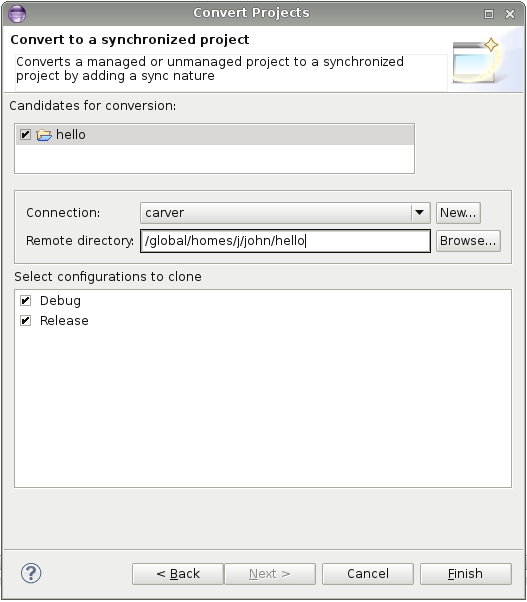
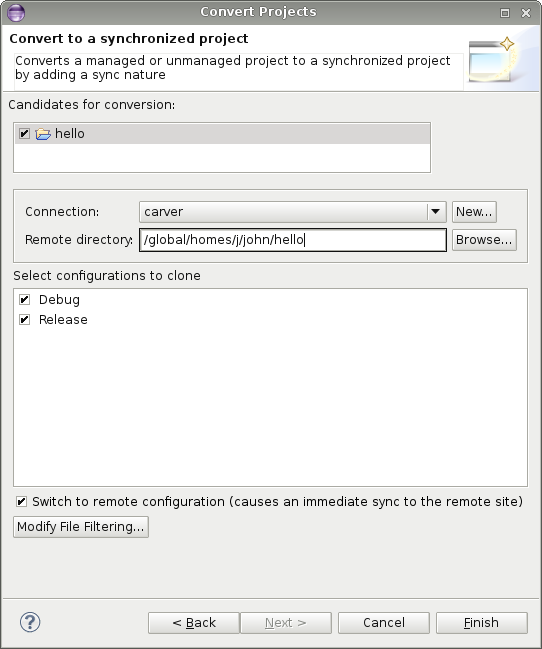
Fix bug 382504 - Conversion wizard for Synchronized Projects should have file filtering and other options

Changed region(s): [[0.0, 0.0, 1.0, 1.0]]

diff --git a/rdt/org.eclipse.ptp.rdt.sync.ui/src/org/eclipse/ptp/rdt/sync/ui/wizards/ConvertLocalToSyncProjectWizardPage.java b/rdt/org.eclipse.ptp.rdt.sync.ui/src/org/eclipse/ptp/rdt/sync/ui/wizards/ConvertLocalToSyncProjectWizardPage.java
@@ -41,10 +41,12 @@ import org.eclipse.jface.viewers.ISelectionChangedListener;
 import org.eclipse.jface.viewers.IStructuredContentProvider;
 import org.eclipse.jface.viewers.SelectionChangedEvent;
 import org.eclipse.jface.viewers.Viewer;
+import org.eclipse.jface.window.Window;
 import org.eclipse.ptp.rdt.core.resources.RemoteNature;
 import org.eclipse.ptp.rdt.core.services.IRDTServiceConstants;
 import org.eclipse.ptp.rdt.sync.core.BuildConfigurationManager;
 import org.eclipse.ptp.rdt.sync.core.BuildScenario;
+import org.eclipse.ptp.rdt.sync.core.SyncFileFilter;
 import org.eclipse.ptp.rdt.sync.core.SyncManager;
 import org.eclipse.ptp.rdt.sync.core.resources.RemoteSyncNature;
 import org.eclipse.ptp.rdt.sync.core.serviceproviders.ISyncServiceProvider;
@@ -53,6 +55,7 @@ import org.eclipse.ptp.rdt.sync.core.services.IRemoteSyncServiceConstants;
 import org.eclipse.ptp.rdt.sync.ui.ISynchronizeParticipant;
 import org.eclipse.ptp.rdt.sync.ui.ISynchronizeParticipantDescriptor;
 import org.eclipse.ptp.rdt.sync.ui.RDTSyncUIPlugin;
+import org.eclipse.ptp.rdt.sync.ui.SyncFileFilterPage;
 import org.eclipse.ptp.rdt.sync.ui.SynchronizeParticipantRegistry;
 import org.eclipse.ptp.rdt.sync.ui.messages.Messages;
 import org.eclipse.ptp.remote.core.IRemoteConnection;
@@ -67,6 +70,7 @@ import org.eclipse.swt.events.SelectionEvent;
 import org.eclipse.swt.graphics.Image;
 import org.eclipse.swt.layout.GridData;
 import org.eclipse.swt.layout.GridLayout;
+import org.eclipse.swt.widgets.Button;
 import org.eclipse.swt.widgets.Combo;
 import org.eclipse.swt.widgets.Composite;
 import org.eclipse.swt.widgets.Group;
@@ -84,6 +88,8 @@ public class ConvertLocalToSyncProjectWizardPage extends ConvertProjectWizardPag
 	private StackLayout fProviderStack;
 	private Composite fConfigArea;
 	private CheckboxTableViewer fConfigTable;
+	private Button switchToRemoteConfigButton;
+	private SyncFileFilter customFilter = null;
 	private final List<Composite> fProviderControls = new ArrayList<Composite>();
 	private ISynchronizeParticipantDescriptor fSelectedProvider;
 	private final Map<Integer, ISynchronizeParticipantDescriptor> fComboIndexToDescriptorMap = new HashMap<Integer, ISynchronizeParticipantDescriptor>();
@@ -236,6 +242,34 @@ public class ConvertLocalToSyncProjectWizardPage extends ConvertProjectWizardPag
 			}
 		});
 		
+		// Button to switch to remote config after conversion
+		switchToRemoteConfigButton = new Button(comp, SWT.CHECK);
+		switchToRemoteConfigButton.setText(Messages.ConvertLocalToSyncProjectWizardPage_4);
+		gd = new GridData(GridData.FILL_HORIZONTAL);
+		gd.horizontalSpan = 3;
+		switchToRemoteConfigButton.setLayoutData(gd);
+		switchToRemoteConfigButton.setSelection(true);
+
+		// File filter button
+		final Button filterButton = new Button(comp, SWT.PUSH);
+		filterButton.setText(Messages.ConvertLocalToSyncProjectWizardPage_3);
+		filterButton.setLayoutData(new GridData(SWT.LEFT, SWT.TOP, false, false, 3, 1));
+		filterButton.addSelectionListener(new SelectionAdapter() {
+			@Override
+			public void widgetSelected(SelectionEvent event) {
+				SyncFileFilter tmpFilter;
+				if (customFilter == null) {
+					tmpFilter = SyncManager.getDefaultFileFilter();
+				} else {
+					tmpFilter = new SyncFileFilter(customFilter);
+				}
+				int filterReturnCode = SyncFileFilterPage.openBlocking(tmpFilter, filterButton.getShell());
+				if (filterReturnCode == Window.OK) {
+					customFilter = tmpFilter;
+				}
+			}
+		});
+		
 		// These buttons are useless when only one project should be selected
 		this.selectAllButton.setVisible(false);
 		this.deselectAllButton.setVisible(false);
@@ -295,6 +329,7 @@ public class ConvertLocalToSyncProjectWizardPage extends ConvertProjectWizardPag
 			}
 			
 			// Iterate through all configs
+			boolean switchToRemoteConfig = switchToRemoteConfigButton.getSelection();
 			boolean defaultConfigSet = false;
 			IConfiguration[] allConfigs = buildInfo.getManagedProject().getConfigurations();
 			for (IConfiguration config : allConfigs) {
@@ -305,7 +340,7 @@ public class ConvertLocalToSyncProjectWizardPage extends ConvertProjectWizardPag
 					bcm.modifyConfigurationAsSyncRemote(remoteConfig);
 
 					// The first remote found will be the initial default (active) configuration.
-					if (!defaultConfigSet) {
+					if (switchToRemoteConfig && !defaultConfigSet) {
 						ManagedBuildManager.setDefaultConfiguration(project, remoteConfig);
 						defaultConfigSet = true;
 					}
@@ -314,6 +349,10 @@ public class ConvertLocalToSyncProjectWizardPage extends ConvertProjectWizardPag
 				bcm.modifyConfigurationAsSyncLocal(config);
 			}
 			ManagedBuildManager.saveBuildInfo(project, true);
+			
+			if (customFilter != null) {
+				SyncManager.saveFileFilter(project, customFilter);
+			}
 			
 		    // Enable sync'ing
 		    SyncManager.setSyncMode(project, SyncManager.SYNC_MODE.ACTIVE);

diff --git a/rdt/org.eclipse.ptp.rdt.sync.ui/src/org/eclipse/ptp/rdt/sync/ui/messages/Messages.java b/rdt/org.eclipse.ptp.rdt.sync.ui/src/org/eclipse/ptp/rdt/sync/ui/messages/Messages.java
@@ -34,6 +34,8 @@ public class Messages extends NLS {
 	public static String ConvertLocalToSyncProjectWizardPage_0;
 	public static String ConvertLocalToSyncProjectWizardPage_1;
 	public static String ConvertLocalToSyncProjectWizardPage_2;
+	public static String ConvertLocalToSyncProjectWizardPage_3;
+	public static String ConvertLocalToSyncProjectWizardPage_4;
 	public static String ConvertToRemoteWizardPage_0;
 	public static String ConvertToSyncProjectWizardPage_0;
 	public static String ConvertToSyncProjectWizardPage_convertingToSyncProject;
